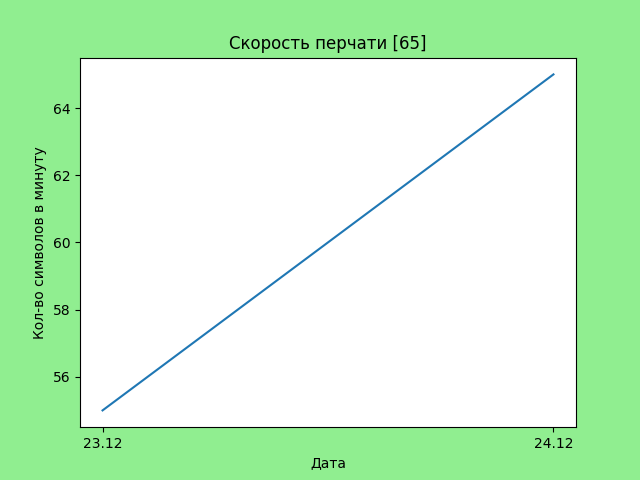
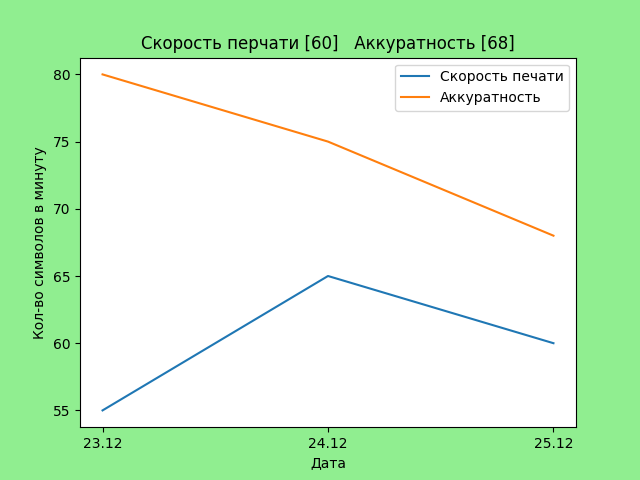
new format in db

diff --git a/database.py b/database.py
@@ -15,7 +15,7 @@ class SQLighter:
 
     def select_all_from_name(self, name):
         with self.connection:
-            return self.cursor.execute(f"SELECT * FROM archive WHERE name = '{name}'").fetchall()
+            return self.cursor.execute(f"SELECT * FROM records WHERE name = '{name}'").fetchall()
 
     def close(self):
         self.connection.close()
@@ -53,7 +53,7 @@ class SQLighter:
         full_cash = 0
         for name in students:
             with self.connection:
-                command = f"SELECT lessons_count, lesson_cost FROM archive WHERE name = '{name}'"
+                command = f"SELECT lessons_count, lesson_cost FROM records WHERE name = '{name}'"
                 all_records = self.cursor.execute(command).fetchall()
                 for i in all_records:
                     full_cash += i[0] * i[1]
@@ -61,22 +61,15 @@ class SQLighter:
         res = '\n'.join(payments_list) + '\n\n' + f"Текущий баланс   {full_cash - payments_sum}"
         return res
 
-    def add_row_in_archive(self, name, lessons_count, typing_speed, date='', lesson_cost=ONE_LESSON_COST):
+    def add_row_in_archive(self, name, lessons_count, typing_speed, typing_accuracy,
+                           date='', lesson_cost=ONE_LESSON_COST):
         if not date:
             date = datetime.now().date().strftime("%d.%m.%Y")
         with self.connection:
-            self.cursor.execute(f"INSERT INTO archive VALUES('{name}', '{date}', {lessons_count}," +
-                                f"{typing_speed}, {lesson_cost})")
-
-
+            self.cursor.execute(f"INSERT INTO records VALUES('{name}', '{date}', {lessons_count}," +
+                                f"{typing_speed}, {typing_accuracy}, {lesson_cost})")
 
 
 if __name__ == "__main__":
     db = SQLighter("base.db")
     db.get_cash()
-#
-
-
-
-
-

diff --git a/interface.py b/interface.py
@@ -62,19 +62,26 @@ def return_button():
 def draw_plots(name):
     db = SQLighter("base.db")
     all_records = db.select_all_from_name(name)
-    y = []
+    y_speed = []
+    y_accuracy = []
     x = []
     for i in all_records:
         if i[-2]:
-            y.append(i[-2])
+            y_speed.append(i[-3])
+            y_accuracy.append(i[-2])
             x.append('.'.join(i[1].split('.')[:2]))
     fig, ax = plt.subplots(facecolor="lightgreen")
-    ax.plot(x, y)
+    ax.plot(x, y_speed, label="Скорость печати")
+    ax.plot(x, y_accuracy, label="Аккуратность")
 
-    plt.title(f"Скорость перчати [{str(y[-1]) if y else 0}]")
+    typing_speed = str(y_speed[-1]) if y_speed else 0
+    typing_accuracy = str(y_accuracy[-1]) if y_accuracy else 0
+
+    plt.title(f"Скорость перчати [{typing_speed}]   Аккуратность [{typing_accuracy}]")
     plt.xlabel("Дата")
     plt.ylabel("Кол-во символов в минуту")
     ax.set_xticklabels(x)
+    plt.legend()
     plt.savefig(f"imgs/{name}_plot")
     plt.clf()
 
@@ -93,6 +100,7 @@ class States:
                         "add_lessons",
                         "add_lessons_count",
                         "add_typing_speed",
+                        "add_typing_accuracy",
                         "new_payment",
                         "payment_comment",
                         ]
@@ -109,12 +117,3 @@ class States:
 
 if __name__ == "__main__":
     pass
-
-#
-
-
-
-
-
-
-

diff --git a/main.py b/main.py
@@ -53,12 +53,23 @@ def bot_add_lesson_count(msg):
 
 
 @bot.message_handler(func=lambda x: state.state == "add_typing_speed")
-def bot_add_lesson_typing_speed(msg):
+def bot_add_lesson_count(msg):
     _id = msg.chat.id
     if msg.text == "return":
         state.set_state("listening")
         return
     record.append(int(msg.text))  # typing_speed
+    say(_id, "Enter typing accuracy")
+    state.set_state("add_typing_accuracy")
+
+
+@bot.message_handler(func=lambda x: state.state == "add_typing_accuracy")
+def bot_add_lesson_typing_speed(msg):
+    _id = msg.chat.id
+    if msg.text == "return":
+        state.set_state("listening")
+        return
+    record.append(int(msg.text))  # typing_accuracy
     say(_id, "done", reply_markup=get_lessons_info(_id))
     db.add_row_in_archive(*record)
     record.clear()
@@ -131,4 +142,3 @@ if __name__ == "__main__":
     rander_plots()
     print("started")
     bot.polling(none_stop=True)
-#

diff --git a/config.py b/config.py
@@ -31,5 +31,3 @@ students = (
     "Artem",
     "Sergey",
 )
-
-#
